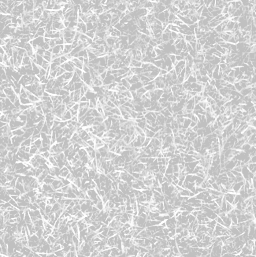
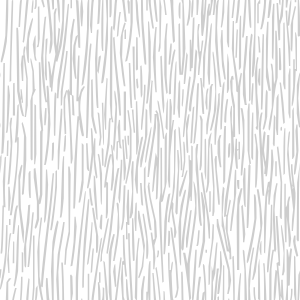
new bg image tile

diff --git a/style.min.css b/style.min.css
@@ -1,1 +1,1 @@
-#field,body{height:100%;width:100%}@font-face{font-family:Arcon;src:url(font/TruenoSBd.otf)}body{margin:0;background-image:url(img/tile.png);background-color:#2c7522;cursor:default}#field{display:block;position:absolute;top:50%;left:50%;transform:translate(-50%,-50%)}svg{-webkit-user-select:none;-khtml-user-select:none;-moz-user-select:none;-ms-user-select:none;-o-user-select:none;user-select:none}svg text{-webkit-text-shadow:0 2px 3px rgba(0,0,0,.4);-moz-text-shadow:0 2px 3px rgba(0,0,0,.4);text-shadow:0 2px 3px rgba(0,0,0,.4)}svg polygon{-webkit-filter:drop-shadow( 0 0 20px rgba(0, 0, 0, .4));filter:drop-shadow( 0 0 20px rgba(0, 0, 0, .4))}
+@font-face{font-family:Arcon;src:url(font/TruenoSBd.otf)}body,html{width:100%;height:100%;margin:0;background-image:url(img/tile3.png);background-color:#114B17;cursor:default}#field{display:block;position:absolute;top:50%;left:50%;transform:translate(-50%,-50%)}svg{-webkit-user-select:none;-khtml-user-select:none;-moz-user-select:none;-ms-user-select:none;-o-user-select:none;user-select:none}svg text{-webkit-text-shadow:0 2px 3px rgba(0,0,0,.35);-moz-text-shadow:0 2px 3px rgba(0,0,0,.35);text-shadow:0 2px 3px rgba(0,0,0,.35)}svg polygon{-webkit-filter:drop-shadow( 0 0 20px rgba(0, 0, 0, .4));filter:drop-shadow( 0 0 20px rgba(0, 0, 0, .4))}

diff --git a/style.css b/style.css
@@ -7,8 +7,9 @@ body, html {
   width: 100%;
   height: 100%;
   margin: 0;
-  background-image: url('img/tile.png');
-  background-color: #2c7522;
+  background-image: url('img/tile3.png');
+  /*background-color: #2c7522;*/
+  background-color: #114B17;
   cursor: default;
 }
 
